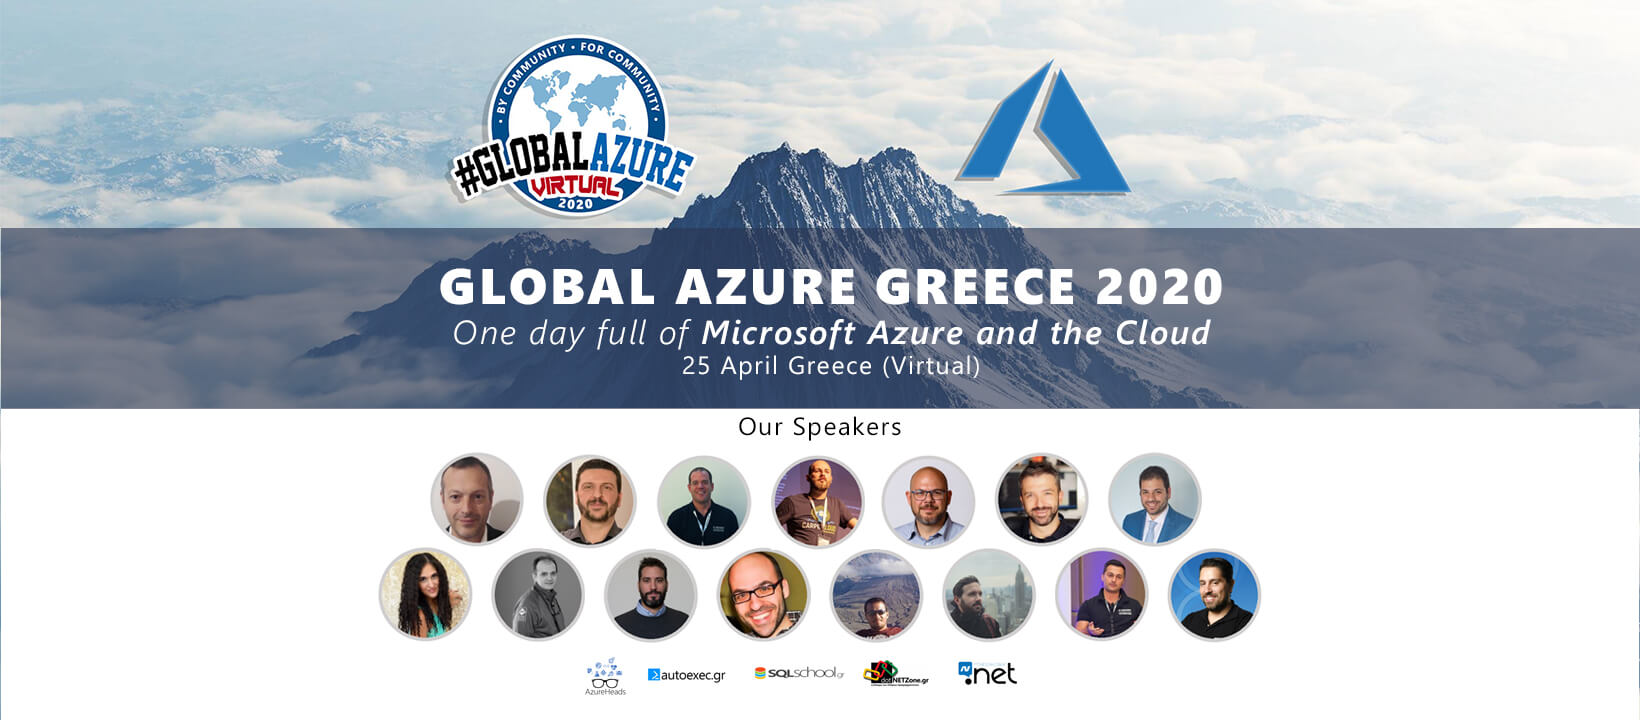
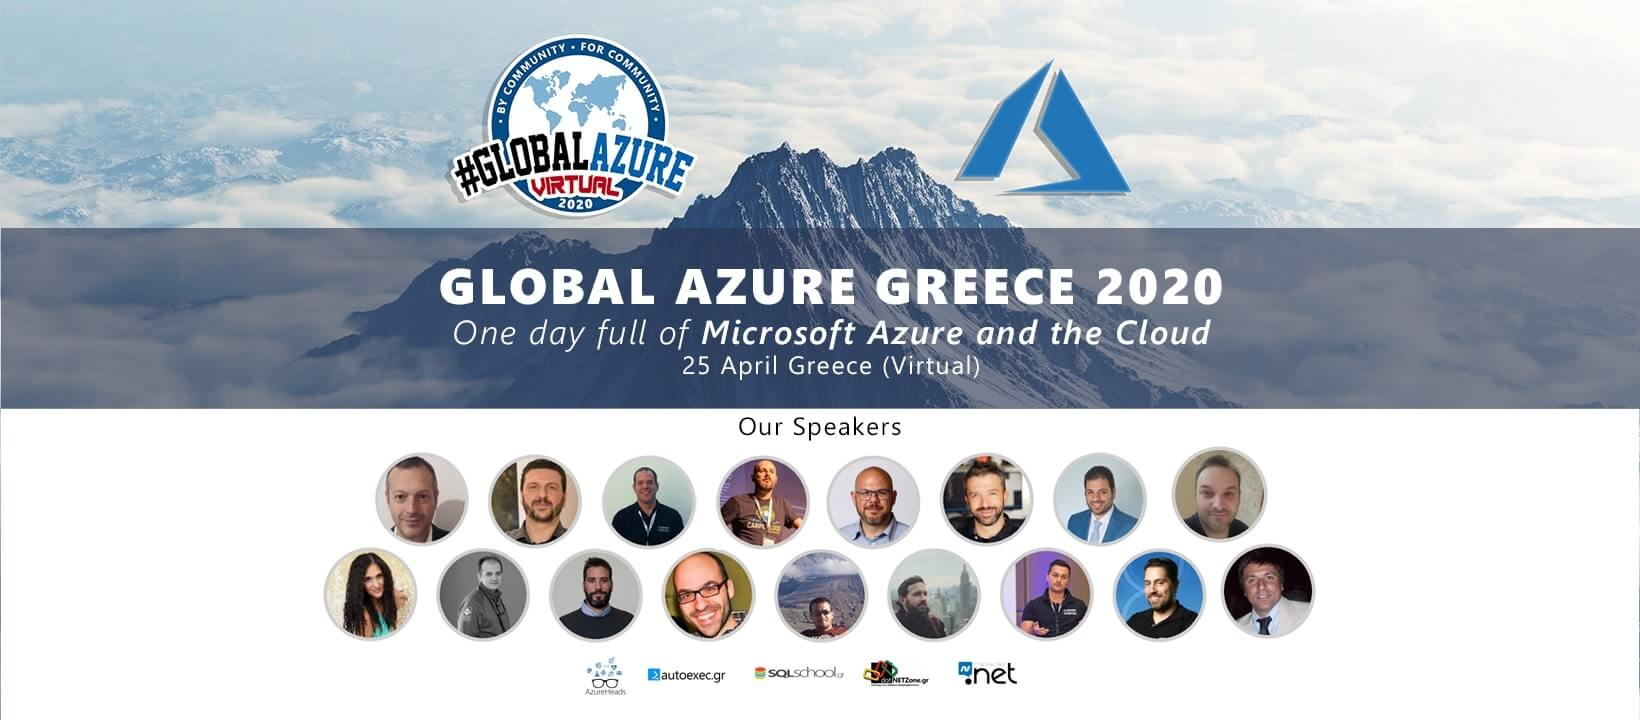
feat(speakers): add extra cards

diff --git a/Controllers/HomeController.cs b/Controllers/HomeController.cs
@@ -24,7 +24,13 @@ namespace gab_athens.Controllers
             { "polyzos", "paris-polyzos" } ,
             { "kappas", "vaggelis-kappas" } ,
             { "touliatos", "yanni-touliatos" },
-            { "ioannidis", "vassilis-ioannidis" }
+            { "ioannidis", "vassilis-ioannidis" },
+            { "spyrou", "george-spyrou" },
+            { "ziazios", "konstantinos-ziazios" },
+            { "set1", "set-1" },
+            { "set2", "set-2" },
+            { "set3", "set-3" },
+            { "set4", "set-4" },
         };
 
         public IActionResult Index(string speaker)
